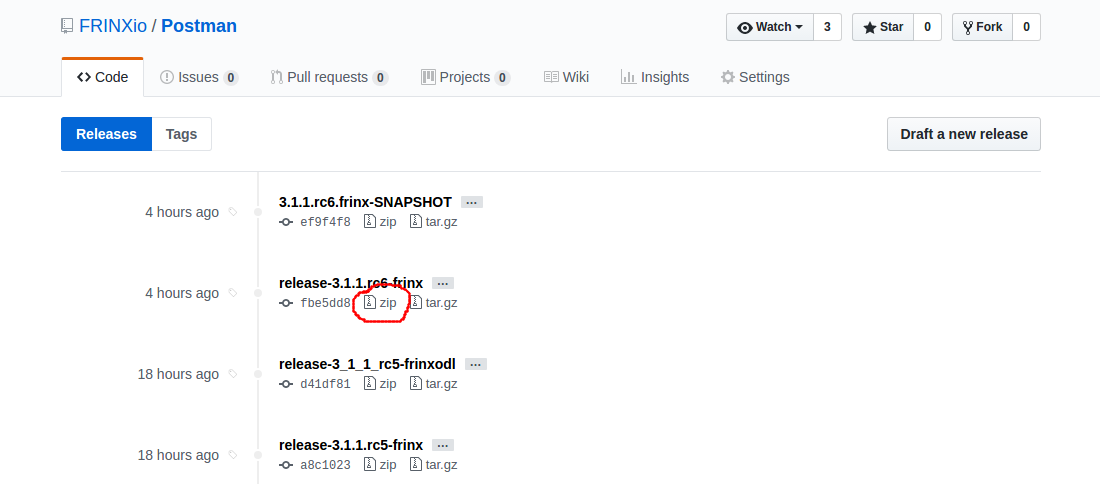
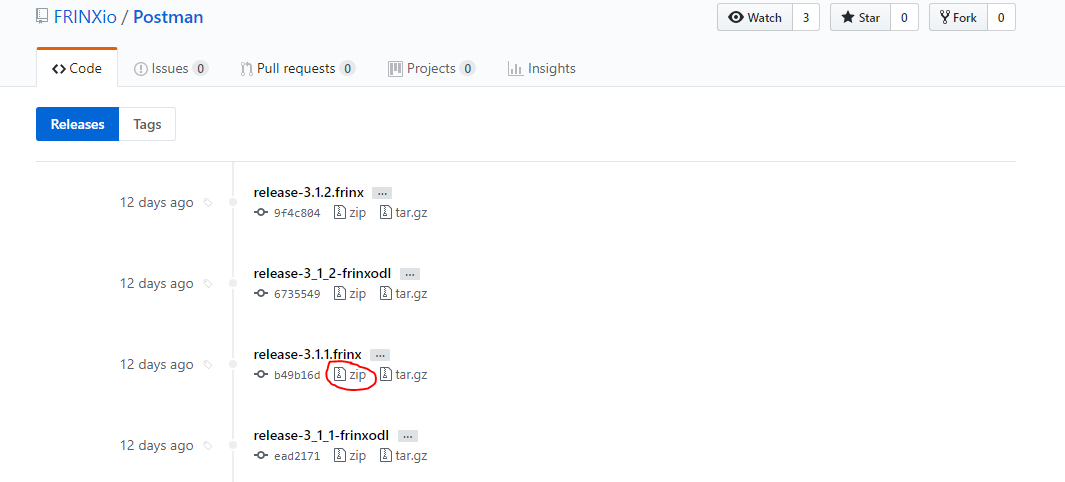
adds link

diff --git a/README.md b/README.md
@@ -1,14 +1,11 @@
 # Usage
 Each new release of Frinx ODL (from 3.1.1 onwards) has associated Postman collections and environment files that form the API for interacting with Frinx ODL and are contained within this repository. For more info please see our main documentation page [here](https://frinxio.github.io/Frinx-docs/FRINX_ODL_Distribution/Carbon/API.html)  
 
-
 To download:
 
-1. Click on 'releases' above, shown circled in red in the image below.   
-
-![Click on releases](image1.png "Click on releases")
+1. Both the Frinx **Postman collection** and **Postman environment** files are grouped by Frinx ODL release (starting with 3.1.1) and packaged as zip files [here](https://github.com/FRINXio/Postman/releases). 
   
-2. Scroll to the release number that matches the Frinx ODL Distribution you are using, and click on zip to download.  
+2. On that page, scroll to the release number that matches the Frinx ODL Distribution you are using, and click on zip to download.  
 
 ![Select release](image2.png "Select release")  
 
